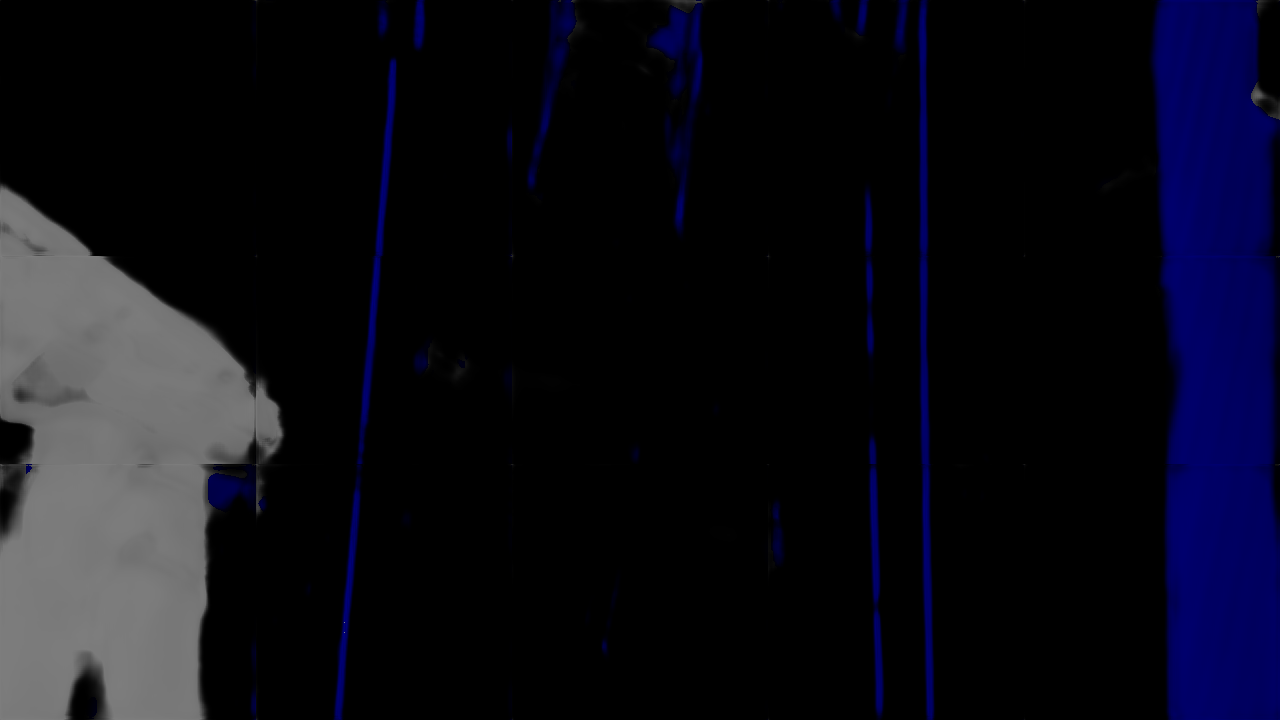
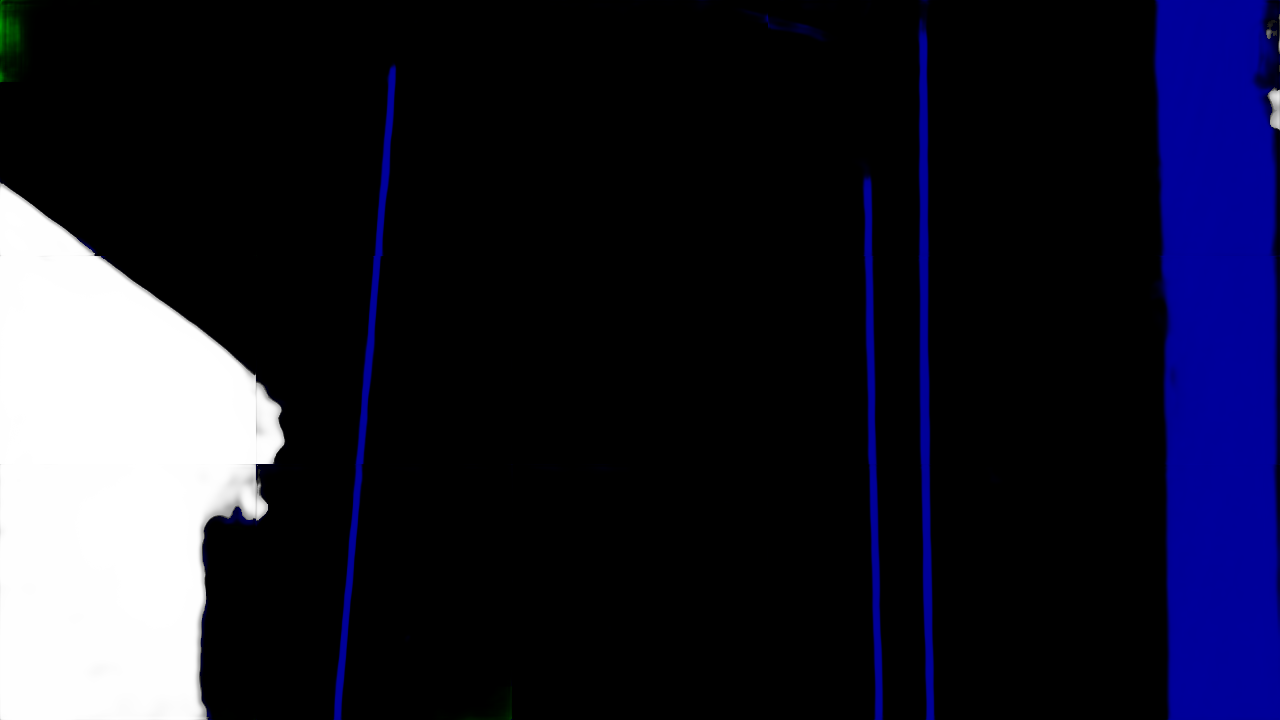
trained for wires, copter and bush

diff --git a/preprocess_png.py b/preprocess_png.py
@@ -51,9 +51,9 @@ def gen(path='data/train', batch=2):
             #print("before:")
             #print(np.unique(mask, axis=-2))
             aug1 = Compose([
-                RandomCrop(height=resolution[0], width=resolution[1], p=1.0)], #добавил ]
-                #VerticalFlip(p=0.5),
-                #RandomRotate90(p=0.5),
+                RandomCrop(height=resolution[0], width=resolution[1], p=1.0),
+                VerticalFlip(p=0.5),
+                RandomRotate90(p=0.5)],
                 #OpticalDistortion(p=0.8, distort_limit=0.2, shift_limit=0.2)],
                 additional_targets={
                     'depth': 'image',
@@ -63,7 +63,7 @@ def gen(path='data/train', batch=2):
                 mask = mask)
             aug2 = Compose([
                 CLAHE(p=0.8),
-                #RandomBrightnessContrast(p=0.8),
+                RandomBrightnessContrast(p=0.8),
                 RandomGamma(p=0.8)])(image = aug1["image"])
             output.append((aug2["image"], aug1["depth"], aug1["mask"]))
             #x += 1

diff --git a/main.py b/main.py
@@ -3,11 +3,11 @@ from data import trainGenerator
 
 # доступные классы
 # 'ground', 'tree', 'bush', 'tower', 'wires', 'copter', 'car', 'build'
-channels = ['wires']
+channels = ['wires', 'copter', 'bush']
 #претренированные веса:
 pretrained_weights_path = ''
 #сохранить в веса:
-weights_path = 'weights/wires_256_4.hdf5'
+weights_path = 'weights/wires_copter_bush.hdf5'
 
 train_path = 'data/train/'
 
@@ -15,4 +15,4 @@ myGene = trainGenerator(channels)
 model = unet(len(channels), pretrained_weights = pretrained_weights_path)
 
 model_checkpoint = ModelCheckpoint(weights_path, monitor='loss', verbose=1, save_best_only=True)
-model.fit_generator(myGene, steps_per_epoch=10, epochs=2, callbacks=[model_checkpoint])
+model.fit_generator(myGene, steps_per_epoch=600, epochs=1000, callbacks=[model_checkpoint])

diff --git a/predict.py b/predict.py
@@ -4,8 +4,8 @@ from data import testGenerator, saveResult
 # доступные классы
 # 'ground', 'tree', 'bush', 'tower', 'wire', 'copter', 'car', 'build'
 # для каких классов была обучена?
-channels = ['wires']
-weights_path = 'weights/wires_256_4.hdf5'
+channels = ['wires', 'copter', 'bush']
+weights_path = 'weights/wires_copter_bush.hdf5'
 test_path = 'data/predict/left'
 predict_path = 'data/predict/mask'
 num = 9

diff --git a/data.py b/data.py
@@ -6,7 +6,7 @@ from preprocess_png import gen, image_to_probs, probs_to_image
 
 ground = [0,0,0]
 trees = [0,255,0]
-bush = [0,255,255]
+bush = [0,255,0]
 towers = [0,0,255]
 wires = [0,0,255]
 copter = [255,255,255]
